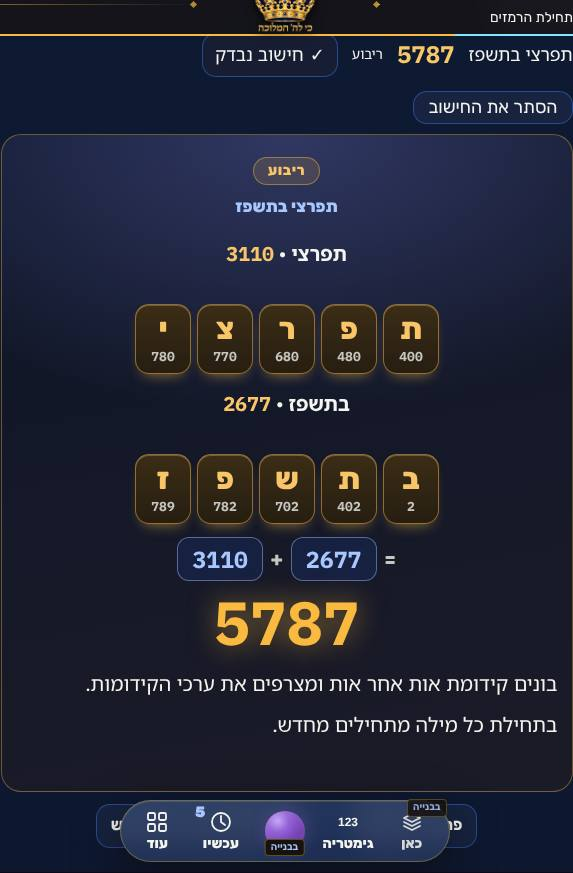
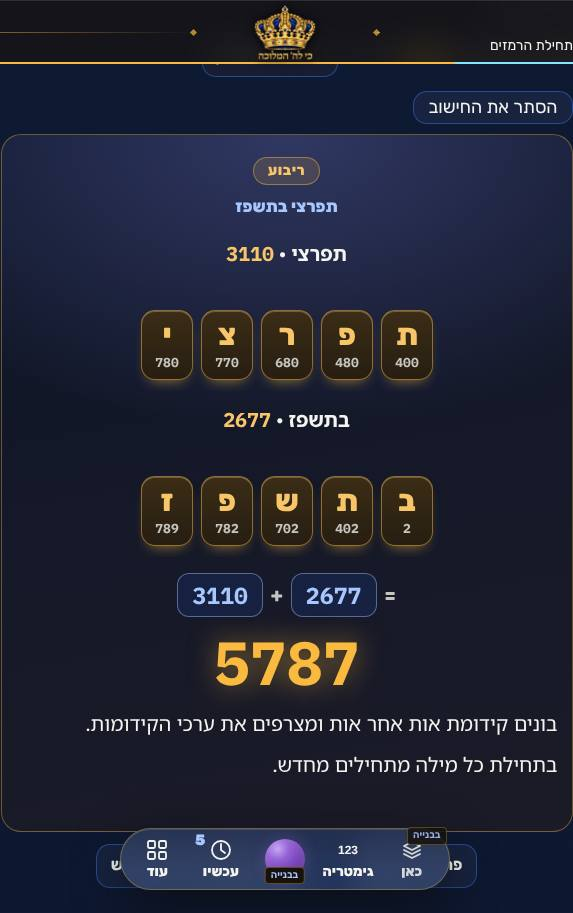
reality-map: gematria showcase is a centred tower; letter and equation rows are always one line (scroll sideways on narrow screens)
Claude-Session: https://claude.ai/code/session_01H7739MtigMQgnkVsaGRzY3

diff --git a/src/pages/post2029-reality-map-royal.css b/src/pages/post2029-reality-map-royal.css
@@ -352,22 +352,26 @@
 .sod29-gx-word{display:grid;gap:.35rem;justify-items:center;inline-size:100%}
 .sod29-gx-word-label{margin:0;font:700 1rem/1.4 var(--s29-font-ui,inherit);color:var(--s29-muted)}
 .sod29-gx-word-label b{font-family:var(--s29-font-numeric,var(--s29-font-ui));color:var(--r29-gold-ink)}
-.sod29-gx-letters{list-style:none;margin:0 auto;padding:0;display:grid;grid-template-columns:repeat(var(--n,5),minmax(0,56px));gap:6px;justify-content:center;inline-size:100%;max-inline-size:380px;perspective:520px}
-.sod29-gx-letters li{display:flex;flex-direction:column;align-items:center;min-inline-size:0;padding:8px 4px;border-radius:14px;line-height:1.1;
+/* FIXED RULE: a row of letters (and the equation row) is ALWAYS one line; where the screen is narrower it scrolls sideways (never wraps). Centred as a tower. */
+.sod29-gx-letters{list-style:none;margin:0 auto;padding:6px 4px 10px;display:flex;flex-wrap:nowrap;gap:8px;justify-content:safe center;inline-size:100%;overflow-x:auto;overscroll-behavior-x:contain;
+  scroll-snap-type:x proximity;perspective:520px;scrollbar-width:thin;scrollbar-color:color-mix(in srgb,var(--r29-gold) 45%,transparent) transparent}
+.sod29-gx-letters:focus-visible{outline:2px solid var(--s29-focus-ring,var(--r29-gold));outline-offset:2px;border-radius:12px}
+.sod29-gx-letters li{flex:0 0 auto;scroll-snap-align:center;display:flex;flex-direction:column;align-items:center;min-inline-size:52px;padding:8px 8px;border-radius:14px;line-height:1.1;
   color:var(--r29-gold-ink);background:linear-gradient(180deg,color-mix(in srgb,var(--r29-gold) 16%,var(--s29-panel)),color-mix(in srgb,var(--r29-gold) 7%,var(--s29-panel)));
   border:1px solid color-mix(in srgb,var(--r29-gold) 50%,transparent);box-shadow:0 8px 14px -8px color-mix(in srgb,var(--r29-gold) 60%,transparent),inset 0 1px 0 color-mix(in srgb,var(--r29-shine) 24%,transparent);
   transform-origin:50% 100%;animation:sod29-gx-rise .55s cubic-bezier(.2,.8,.2,1) both;animation-delay:calc(var(--i,0) * 70ms)}
 .sod29-gx-letters li i{font-style:normal;font:800 clamp(1.4rem,5.8vw,1.9rem)/1.1 var(--s29-font-display,var(--s29-font-ui,inherit))}
 .sod29-gx-letters li small{margin-top:3px;font:700 max(.8rem,13px)/1.2 var(--s29-font-numeric,var(--s29-font-ui));font-variant-numeric:tabular-nums;color:var(--s29-muted)}
 @keyframes sod29-gx-rise{from{opacity:0;transform:rotateX(-62deg) translateY(10px) scale(.92)}to{opacity:1;transform:none}}
-.sod29-gx-eq{display:flex;flex-wrap:wrap;gap:8px;justify-content:center;align-items:center;margin-top:.2rem}
+.sod29-gx-eq{display:flex;flex-wrap:nowrap;gap:8px;justify-content:safe center;align-items:center;margin-top:.2rem;inline-size:100%;overflow-x:auto;padding:4px}
+.sod29-gx-eq>*{flex:0 0 auto}
 .sod29-gx-tile{display:inline-flex;align-items:center;justify-content:center;min-block-size:44px;padding:6px 14px;border-radius:12px;font:800 clamp(1.1rem,4.6vw,1.45rem)/1.1 var(--s29-font-numeric,var(--s29-font-ui));font-variant-numeric:tabular-nums;
   color:var(--r29-azure);background:color-mix(in srgb,var(--r29-sapphire) 14%,transparent);border:1px solid color-mix(in srgb,var(--r29-azure) 45%,transparent)}
 .sod29-gx-plus{font:800 1.25rem/1 var(--s29-font-ui);color:var(--s29-muted)}
 .sod29-gx-big{display:inline-block;font:850 clamp(2.6rem,12vw,3.8rem)/1.05 var(--s29-font-numeric,var(--s29-font-ui));font-variant-numeric:tabular-nums;color:var(--r29-gold);
   text-shadow:0 0 28px color-mix(in srgb,var(--r29-gold) 55%,transparent)}
 :is([data-theme-2029="light"],[data-theme-2029="parchment"]) .sod29-gx-big{text-shadow:none;color:var(--r29-gold-ink)}
-.sod29-gx-cap{margin:0;max-inline-size:34rem;font-size:max(1rem,15px);line-height:1.8;color:var(--s29-ink)}
+.sod29-gx-cap{margin:0;max-inline-size:34rem;font-size:max(1rem,15px);line-height:1.8;color:var(--s29-ink);text-align:center}
 @media (prefers-reduced-motion:reduce){.sod29-gx-letters li{animation:none}}
 /* The engine-state controls inside the unit's own engine panel follow the same look the source units give them (those rules are scoped to .sod29-source-unit). */
 .sod29-reading-post[data-reality-map] .sod29-pu-engine-row .sod29-source-unit-hint{display:flex;flex-wrap:wrap;align-items:center;gap:8px 14px;margin:6px 0}

diff --git a/src/components/experience2029/GematriaShowcase2029.jsx b/src/components/experience2029/GematriaShowcase2029.jsx
@@ -2,7 +2,8 @@
 // a rounded dark panel with a thin gold hairline, a method pill, each word as a row of letter chips (the letter and its running total), the
 // equation of the word subtotals as tiles, and ONE large glowing gold result with a short caption. PRESENTATION ONLY: it renders a model already
 // projected from the canonical Method Trace (projectGematriaTrace) — it never calculates, re-derives or invents a step. Letters rise once in order
-// (finite, reduced-motion aware); there is no looping animation.
+// (finite, reduced-motion aware); there is no looping animation. FIXED RULE (ZURIEL 13.11.2026): everything is centred like a tower, and a row of
+// letters / the equation is ALWAYS a single line — on a narrow screen it scrolls sideways instead of wrapping.
 import React from "react";
 
 const sum = (values) => values.reduce((a, v) => a + Number(v), 0);
@@ -19,7 +20,7 @@ export default function GematriaShowcase2029({ model, expression }) {
     <h4 className="sod29-gx-expr">{expression}</h4>
     {groups.map((group) => <div className="sod29-gx-word" key={group.id}>
       <p className="sod29-gx-word-label">{group.label}{group.subtotal != null ? <> · <b>{group.subtotal}</b></> : null}</p>
-      <ol className="sod29-gx-letters" style={{ "--n": Math.min(group.rows.length, 6) }}>
+      <ol className="sod29-gx-letters" tabIndex={0} aria-label={`אותיות ${group.label} וסכום מצטבר — אפשר לגלול הצידה`}>
         {group.rows.map((row) => <li key={row.id} style={{ "--i": order++ }}>
           <i>{row.token}</i>
           <small>{row.value}</small>

diff --git a/docs/reviews/post-live-prototype-20261112/UNIT_YAMIN_SMOL.md b/docs/reviews/post-live-prototype-20261112/UNIT_YAMIN_SMOL.md
@@ -34,3 +34,4 @@
 - נבנה `GematriaShowcase2029.jsx` (תצוגה בלבד): פאנל מעוגל כהה עם קו זהב דק, תווית שיטה, כל מילה כשורת אותיות (אות + סכום מצטבר מהמנוע), משוואת תתי־הסכומים באריחים, ומספר זהב גדול זוהר אחד עם כיתוב. מקור הסגנון: `.sgx*` של פוסט 5018 (שבילי שפה) — בטוקנים קנוניים; האותיות עולות פעם אחת בסדר (ללא לולאה, מכבד reduced-motion).
 - הנתונים הם הקנוניים (`gematria_method_trace` → `projectGematriaTrace`), ללא חישוב ב־JSX; מספר הטענות 5787: ת400 פ480 ר680 צ770 י780 = 3110; ב2 ת402 ש702 פ782 ז789 = 2677; 3110 + 2677 = 5787.
 - ״קבוע לכל הפוסטים״: הרכיב והמחלקות `.sod29-gx*` נבנו לשימוש חוזר, אך כרגע מחוברים רק ליחידת הבחירות. החלה על כל הפוסטים (גם פוסטים רגילים) דורשת החלטה נפרדת על היקף.
+- **חוק קבוע (ZURIEL 13.11):** הפאנל ממורכז כמגדל; שורת אותיות ושורת המשוואה הן **תמיד שורה אחת** — במסך צר הן נגללות הצידה ולא נשברות (נמדד: שורה אחת ב־320/390/1440; גלילה מופעלת ב־320/390). שורת האותיות ממוקדת במקלדת ומתויגת.
